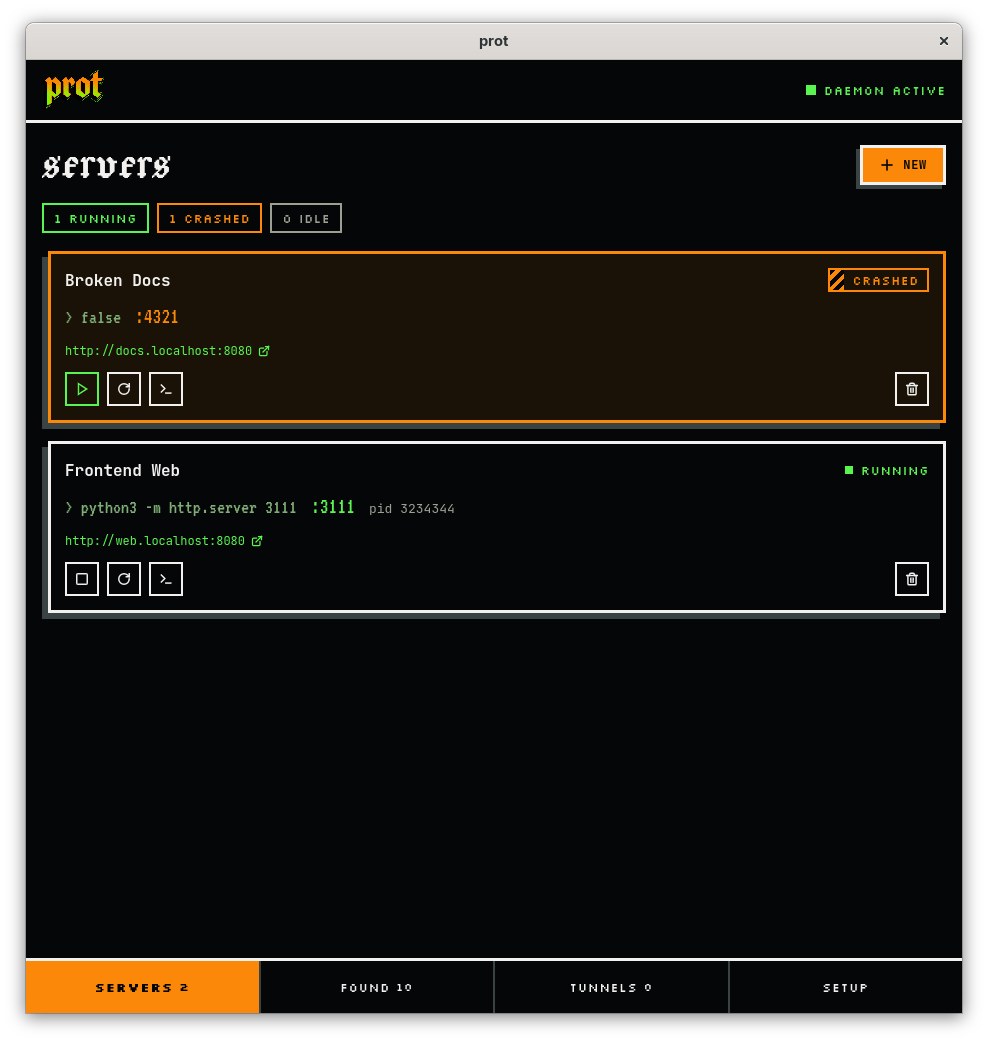
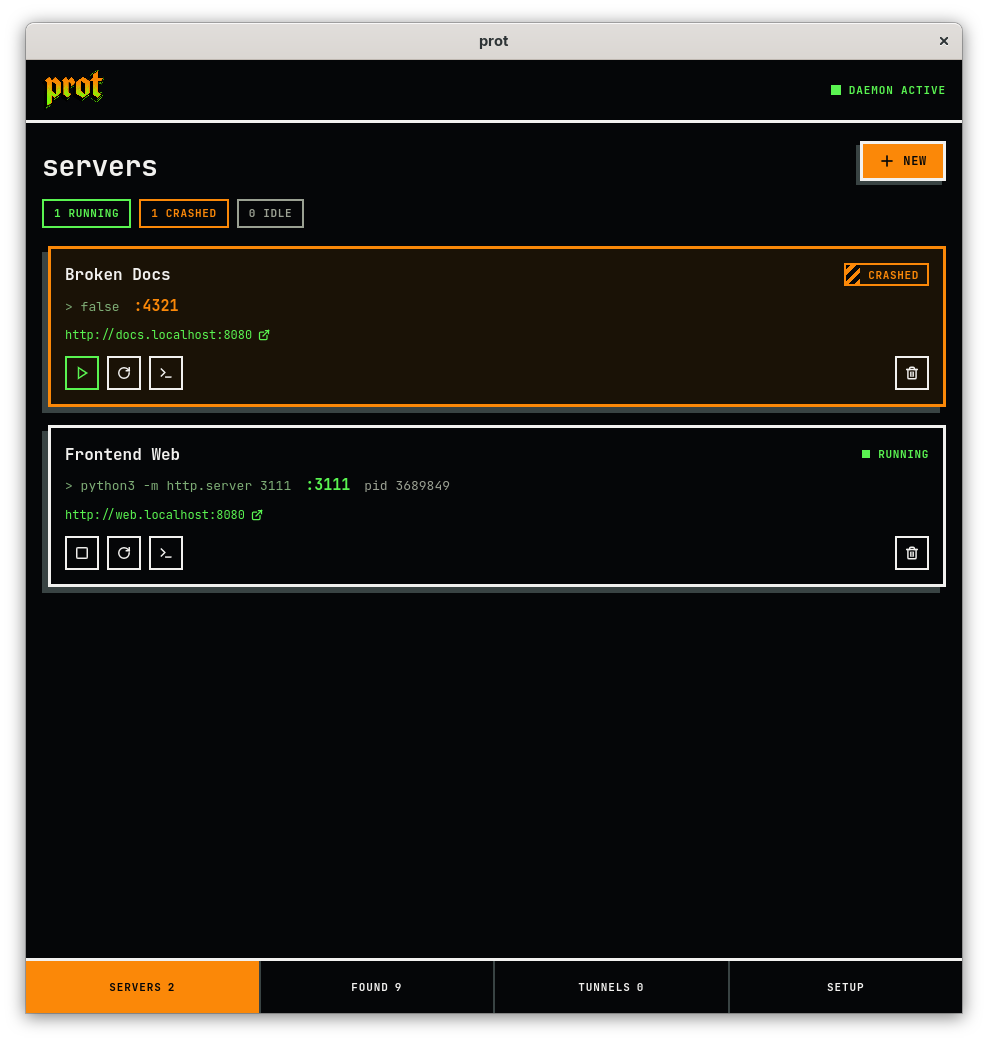
style(desktop): use JetBrains Mono throughout instead of stylized fonts

diff --git a/apps/desktop/src/App.css b/apps/desktop/src/App.css
@@ -1,34 +1,10 @@
 /* prot design system — see /design. Hard edges, hard shadows (down-left), zero blur. */
 
 @font-face {
-  font-family: "Jacquard 24";
-  font-weight: 400;
-  font-display: swap;
-  src: url("./assets/fonts/jacquard-24.woff2") format("woff2");
-}
-@font-face {
   font-family: "JetBrains Mono";
   font-weight: 400 700;
   font-display: swap;
   src: url("./assets/fonts/jetbrains-mono.woff2") format("woff2");
-}
-@font-face {
-  font-family: "Silkscreen";
-  font-weight: 400;
-  font-display: swap;
-  src: url("./assets/fonts/silkscreen-400.woff2") format("woff2");
-}
-@font-face {
-  font-family: "Silkscreen";
-  font-weight: 700;
-  font-display: swap;
-  src: url("./assets/fonts/silkscreen-700.woff2") format("woff2");
-}
-@font-face {
-  font-family: "VT323";
-  font-weight: 400;
-  font-display: swap;
-  src: url("./assets/fonts/vt323.woff2") format("woff2");
 }
 
 :root {
@@ -54,9 +30,9 @@
   --crash-tint: #1a1206;
 
   --font-ui: "JetBrains Mono", ui-monospace, monospace;
-  --font-label: "Silkscreen", monospace;
-  --font-term: "VT323", monospace;
-  --font-display: "Jacquard 24", serif;
+  --font-label: "JetBrains Mono", ui-monospace, monospace;
+  --font-term: "JetBrains Mono", ui-monospace, monospace;
+  --font-display: "JetBrains Mono", ui-monospace, monospace;
 
   --shadow: -6px 6px 0 var(--stone-shadow);
   --shadow-sm: -4px 4px 0 var(--stone-shadow);
@@ -147,10 +123,11 @@ svg {
   align-items: center;
   gap: 8px;
   font-family: var(--font-label);
-  font-size: 12px;
+  font-size: 11px;
   letter-spacing: 0.08em;
   text-transform: uppercase;
   color: var(--daemon);
+  font-weight: 700;
 }
 
 .daemon-chip.offline {
@@ -192,10 +169,11 @@ svg {
   border: none;
   border-left: 2px solid var(--stone-shadow);
   font-family: var(--font-label);
-  font-size: 12px;
+  font-size: 11px;
   letter-spacing: 0.08em;
   text-transform: uppercase;
   cursor: pointer;
+  font-weight: 700;
 }
 
 .nav-tab:first-child {
@@ -229,23 +207,25 @@ svg {
 
 .screen-title h1 {
   font-family: var(--font-display);
-  font-weight: 400;
-  font-size: 52px;
-  line-height: 0.85;
+  font-weight: 800;
+  font-size: 28px;
+  line-height: 1.1;
   color: var(--paper);
+  letter-spacing: -0.01em;
 }
 
 .label {
   font-family: var(--font-label);
-  font-size: 12px;
+  font-size: 11px;
   letter-spacing: 0.08em;
   text-transform: uppercase;
   color: var(--ash);
+  font-weight: 700;
 }
 
 .term {
   font-family: var(--font-term);
-  font-size: 22px;
+  font-size: 14px;
   line-height: 1;
 }
 
@@ -255,7 +235,7 @@ svg {
 
 code {
   font-family: var(--font-term);
-  font-size: 20px;
+  font-size: 13px;
   color: var(--phosphor);
 }
 
@@ -383,10 +363,11 @@ code {
   align-items: center;
   gap: 8px;
   font-family: var(--font-label);
-  font-size: 12px;
+  font-size: 11px;
   letter-spacing: 0.06em;
   text-transform: uppercase;
   white-space: nowrap;
+  font-weight: 700;
 }
 
 .status .sq {
@@ -439,11 +420,12 @@ code {
 
 .summary-chip {
   font-family: var(--font-label);
-  font-size: 12px;
+  font-size: 11px;
   letter-spacing: 0.06em;
   padding: 4px 10px;
   border: 2px solid var(--ash);
   color: var(--ash);
+  font-weight: 700;
 }
 .summary-chip.run {
   border-color: var(--daemon);
@@ -457,12 +439,13 @@ code {
 .tag {
   display: inline-block;
   font-family: var(--font-label);
-  font-size: 11px;
+  font-size: 10px;
   letter-spacing: 0.06em;
   text-transform: uppercase;
   padding: 2px 6px;
   border: 2px solid var(--ash);
   color: var(--ash);
+  font-weight: 700;
 }
 .tag.http {
   background: var(--ink);
@@ -514,9 +497,10 @@ code {
 
 .port {
   font-family: var(--font-term);
-  font-size: 22px;
+  font-size: 15px;
   line-height: 1;
   color: var(--daemon);
+  font-weight: 700;
 }
 
 .card.crashed .port {
@@ -577,9 +561,10 @@ code {
 
 .field > label {
   font-family: var(--font-label);
-  font-size: 12px;
+  font-size: 11px;
   letter-spacing: 0.08em;
   text-transform: uppercase;
+  font-weight: 700;
 }
 
 .input-well {
@@ -594,9 +579,10 @@ code {
 
 .input-well .prompt {
   font-family: var(--font-term);
-  font-size: 26px;
+  font-size: 16px;
   line-height: 1;
   color: var(--hazard);
+  font-weight: 700;
 }
 
 .input-well:focus-within {
@@ -670,9 +656,9 @@ code {
 
 .sheet-head h2 {
   font-family: var(--font-display);
-  font-weight: 400;
-  font-size: 36px;
-  line-height: 0.9;
+  font-weight: 800;
+  font-size: 20px;
+  line-height: 1.2;
 }
 
 .sheet-body {
@@ -714,9 +700,10 @@ code {
   border: 2px solid var(--ink);
   border-bottom: none;
   font-family: var(--font-term);
-  font-size: 20px;
+  font-size: 12px;
   line-height: 1.1;
   color: var(--ink);
+  font-weight: 700;
 }
 
 .terminal-screen {
@@ -728,8 +715,8 @@ code {
   border: 2px solid var(--ink);
   padding: 10px 12px;
   font-family: var(--font-term);
-  font-size: 20px;
-  line-height: 1.15;
+  font-size: 12px;
+  line-height: 1.5;
   color: var(--phosphor);
   text-shadow: 0 0 5px rgba(126, 173, 118, 0.5);
   user-select: text;
@@ -777,8 +764,8 @@ code {
   outline: 2px solid var(--paper);
   padding: 12px;
   font-family: var(--font-term);
-  font-size: 20px;
-  line-height: 1.15;
+  font-size: 12px;
+  line-height: 1.5;
   color: var(--phosphor);
   text-shadow: 0 0 5px rgba(126, 173, 118, 0.5);
   overflow-x: auto;
